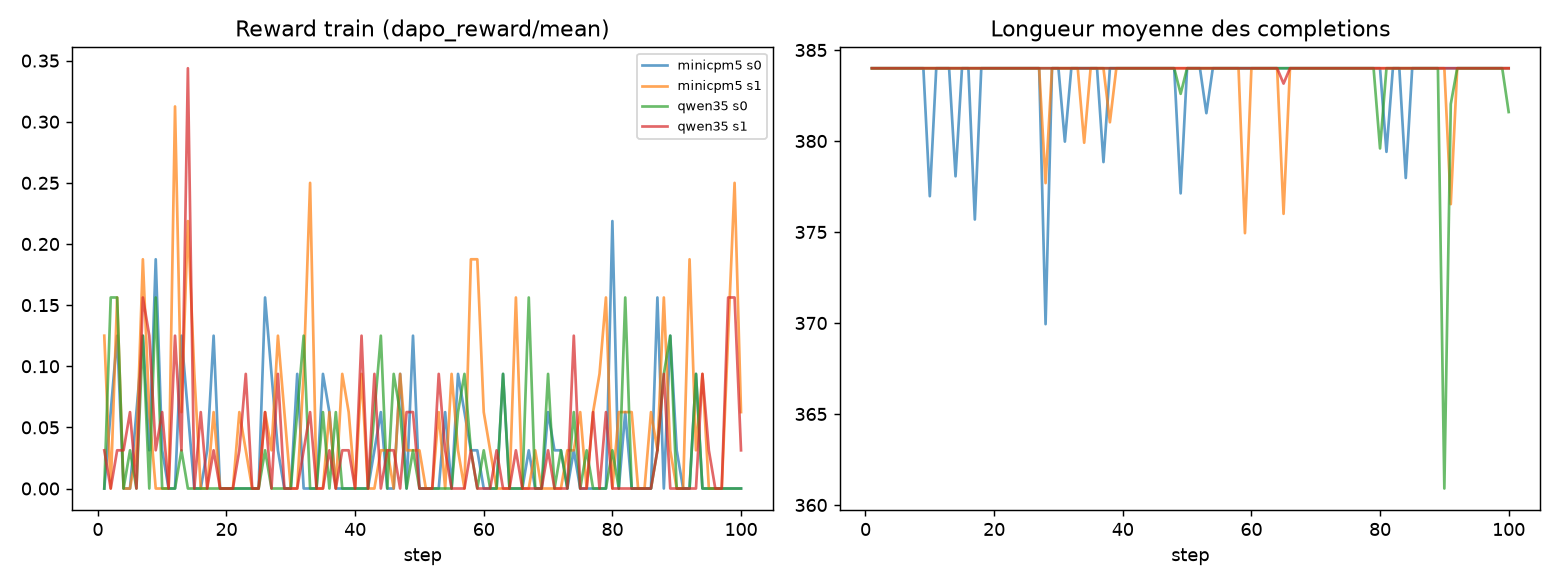
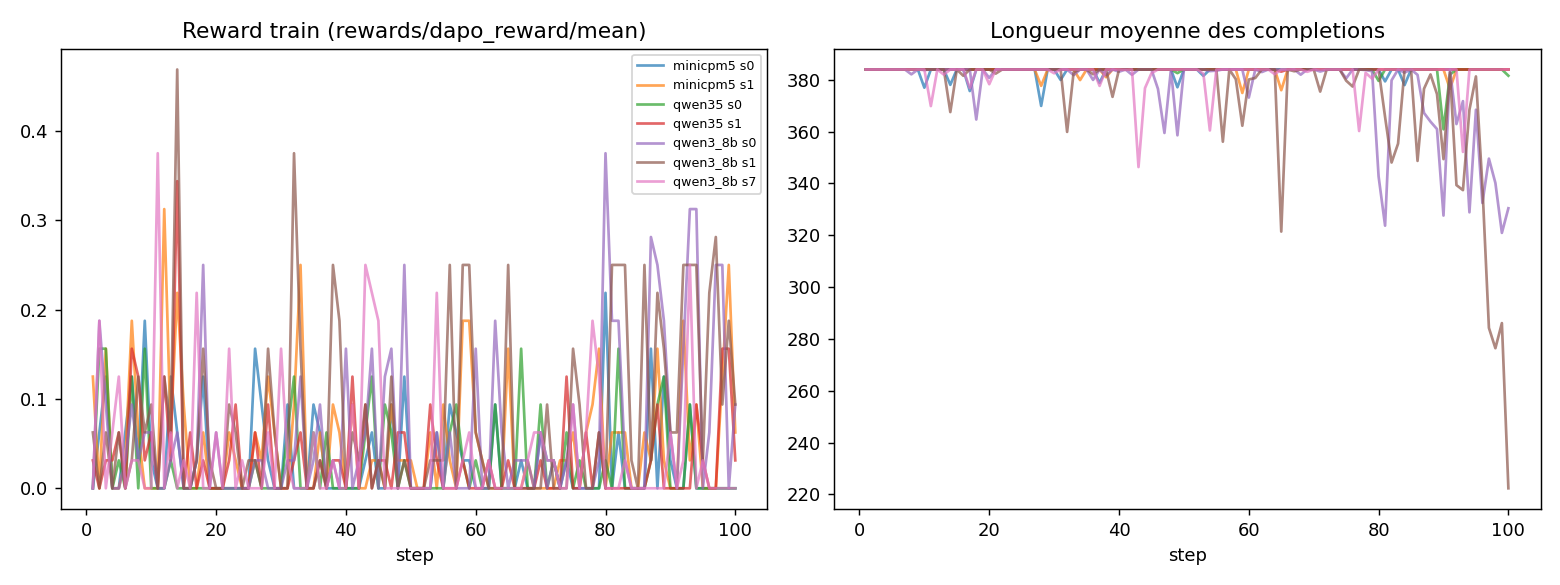
Add(ml,#15293): tableau comparatif regenere (bras 8B a 3 graines, smoke 14B exclu)
Le `summarize` est rejoue sur les runs deja committes avec la table par
etage : le tableau markdown est produit par l'organe, pas a la main.

Etat mesure (2026-11-18, jeu commite sur `main`) :
- etage 0.8-2B : MiniCPM5-2B delta +0.0219 (2 graines), Qwen3.5-0.8B
  delta +0.0063 (2 graines, courbes NON saines) -> moyenne +0.0141
- etage 8-14B : Qwen3-8B delta +0.0521 (3 graines, courbes saines)
- le smoke 14B (3 pas) n'est plus compte comme graine : son delta de 0
  est constructif (post-eval apres 3 pas) et il tirait l'etage 8-14B vers 0
- verdict inter-etage : comparable=oui, intervalles disjoints=non
  (0.0230 vs 0.0233), BEATS=non -- l'etage 0.8-2B porte une courbe
  degeneeree, ce qui suffit a bloquer le verdict.

La campagne multi-seed (8B graine 42, puis 14B graines 0/1/7/42) tourne
en detache sur le GPU 2 d'ai-01 ; ses JSON viendront sur cette meme
branche.

Ecriture de l'artefact en LF explicite (newline="\n") : sans lui,
l'ecriture texte de Windows convertit les \n en \r\n et le fichier differe
d'une machine a l'autre.

Changed region(s): [[0.0, 0.0308, 1.0, 0.9231], [0.7385, 0.9231, 0.7692, 0.9846], [0.2462, 0.9231, 0.2769, 0.9846]]

diff --git a/MyIA.AI.Notebooks/QuantConnect/ML-Training-Pipeline/scripts/probe_15099_dapo_grpo.py b/MyIA.AI.Notebooks/QuantConnect/ML-Training-Pipeline/scripts/probe_15099_dapo_grpo.py
@@ -1418,7 +1418,11 @@ def mode_summarize(dataset_key: str = "dapo") -> int:
     # Le tableau comparatif en markdown est un livrable de l'issue (#15293) :
     # il est ecrit a cote du JSON, pas calcule a la main.
     table_md = results_dir / "tableau_comparatif.md"
-    table_md.write_text(render_comparative_table(summary), encoding="utf-8")
+    # newline explicite : sans lui, l'ecriture texte de Windows convertit les
+    # \n en \r\n et l'artefact differe d'une machine a l'autre (churn CRLF/LF
+    # dans le diff du depot).
+    table_md.write_text(render_comparative_table(summary), encoding="utf-8",
+                        newline="\n")
     print(json.dumps({k: v for k, v in summary.items() if k != "runs"}, indent=2)[:1500])
     print(f"courbes -> {png} | summary -> {summary_json} | tableau -> {table_md}")
     return 0

diff --git a/MyIA.AI.Notebooks/QuantConnect/ML-Training-Pipeline/scripts/results/m19_minicpm5_grpo/tableau_comparatif.md b/MyIA.AI.Notebooks/QuantConnect/ML-Training-Pipeline/scripts/results/m19_minicpm5_grpo/tableau_comparatif.md
@@ -1,0 +1,11 @@
+| Modele | Etage | Graines | eval pre | eval post | delta | +- 1 std | courbes saines |
+|---|---|---:|---:|---:|---:|---:|---|
+| MiniCPM5-2B | 0.8-2B | 2 | 0.0250 | 0.0469 | +0.0219 | 0.0031 | oui |
+| Qwen3.5-0.8B | 0.8-2B | 2 | 0.0219 | 0.0281 | +0.0063 | 0.0063 | non |
+| **moyenne etage 0.8-2B** | 0.8-2B | 4 | | | +0.0141 | 0.0092 | non |
+| Qwen3-8B | 8-14B | 3 | 0.0479 | 0.1000 | +0.0521 | 0.0290 | oui |
+| **moyenne etage 8-14B** | 8-14B | 3 | | | +0.0521 | 0.0290 | oui |
+
+Verdict inter-etage (0.8-2B vs 8-14B) : comparable=True · intervalles disjoints=False · BEATS=False.
+
+Regle : comparaison inter-etage : deux etages, >= 2 graines chacun, delta moyen de l'etage haut > etage bas avec intervalles +-1 std disjoints, et courbes saines des deux cotes
